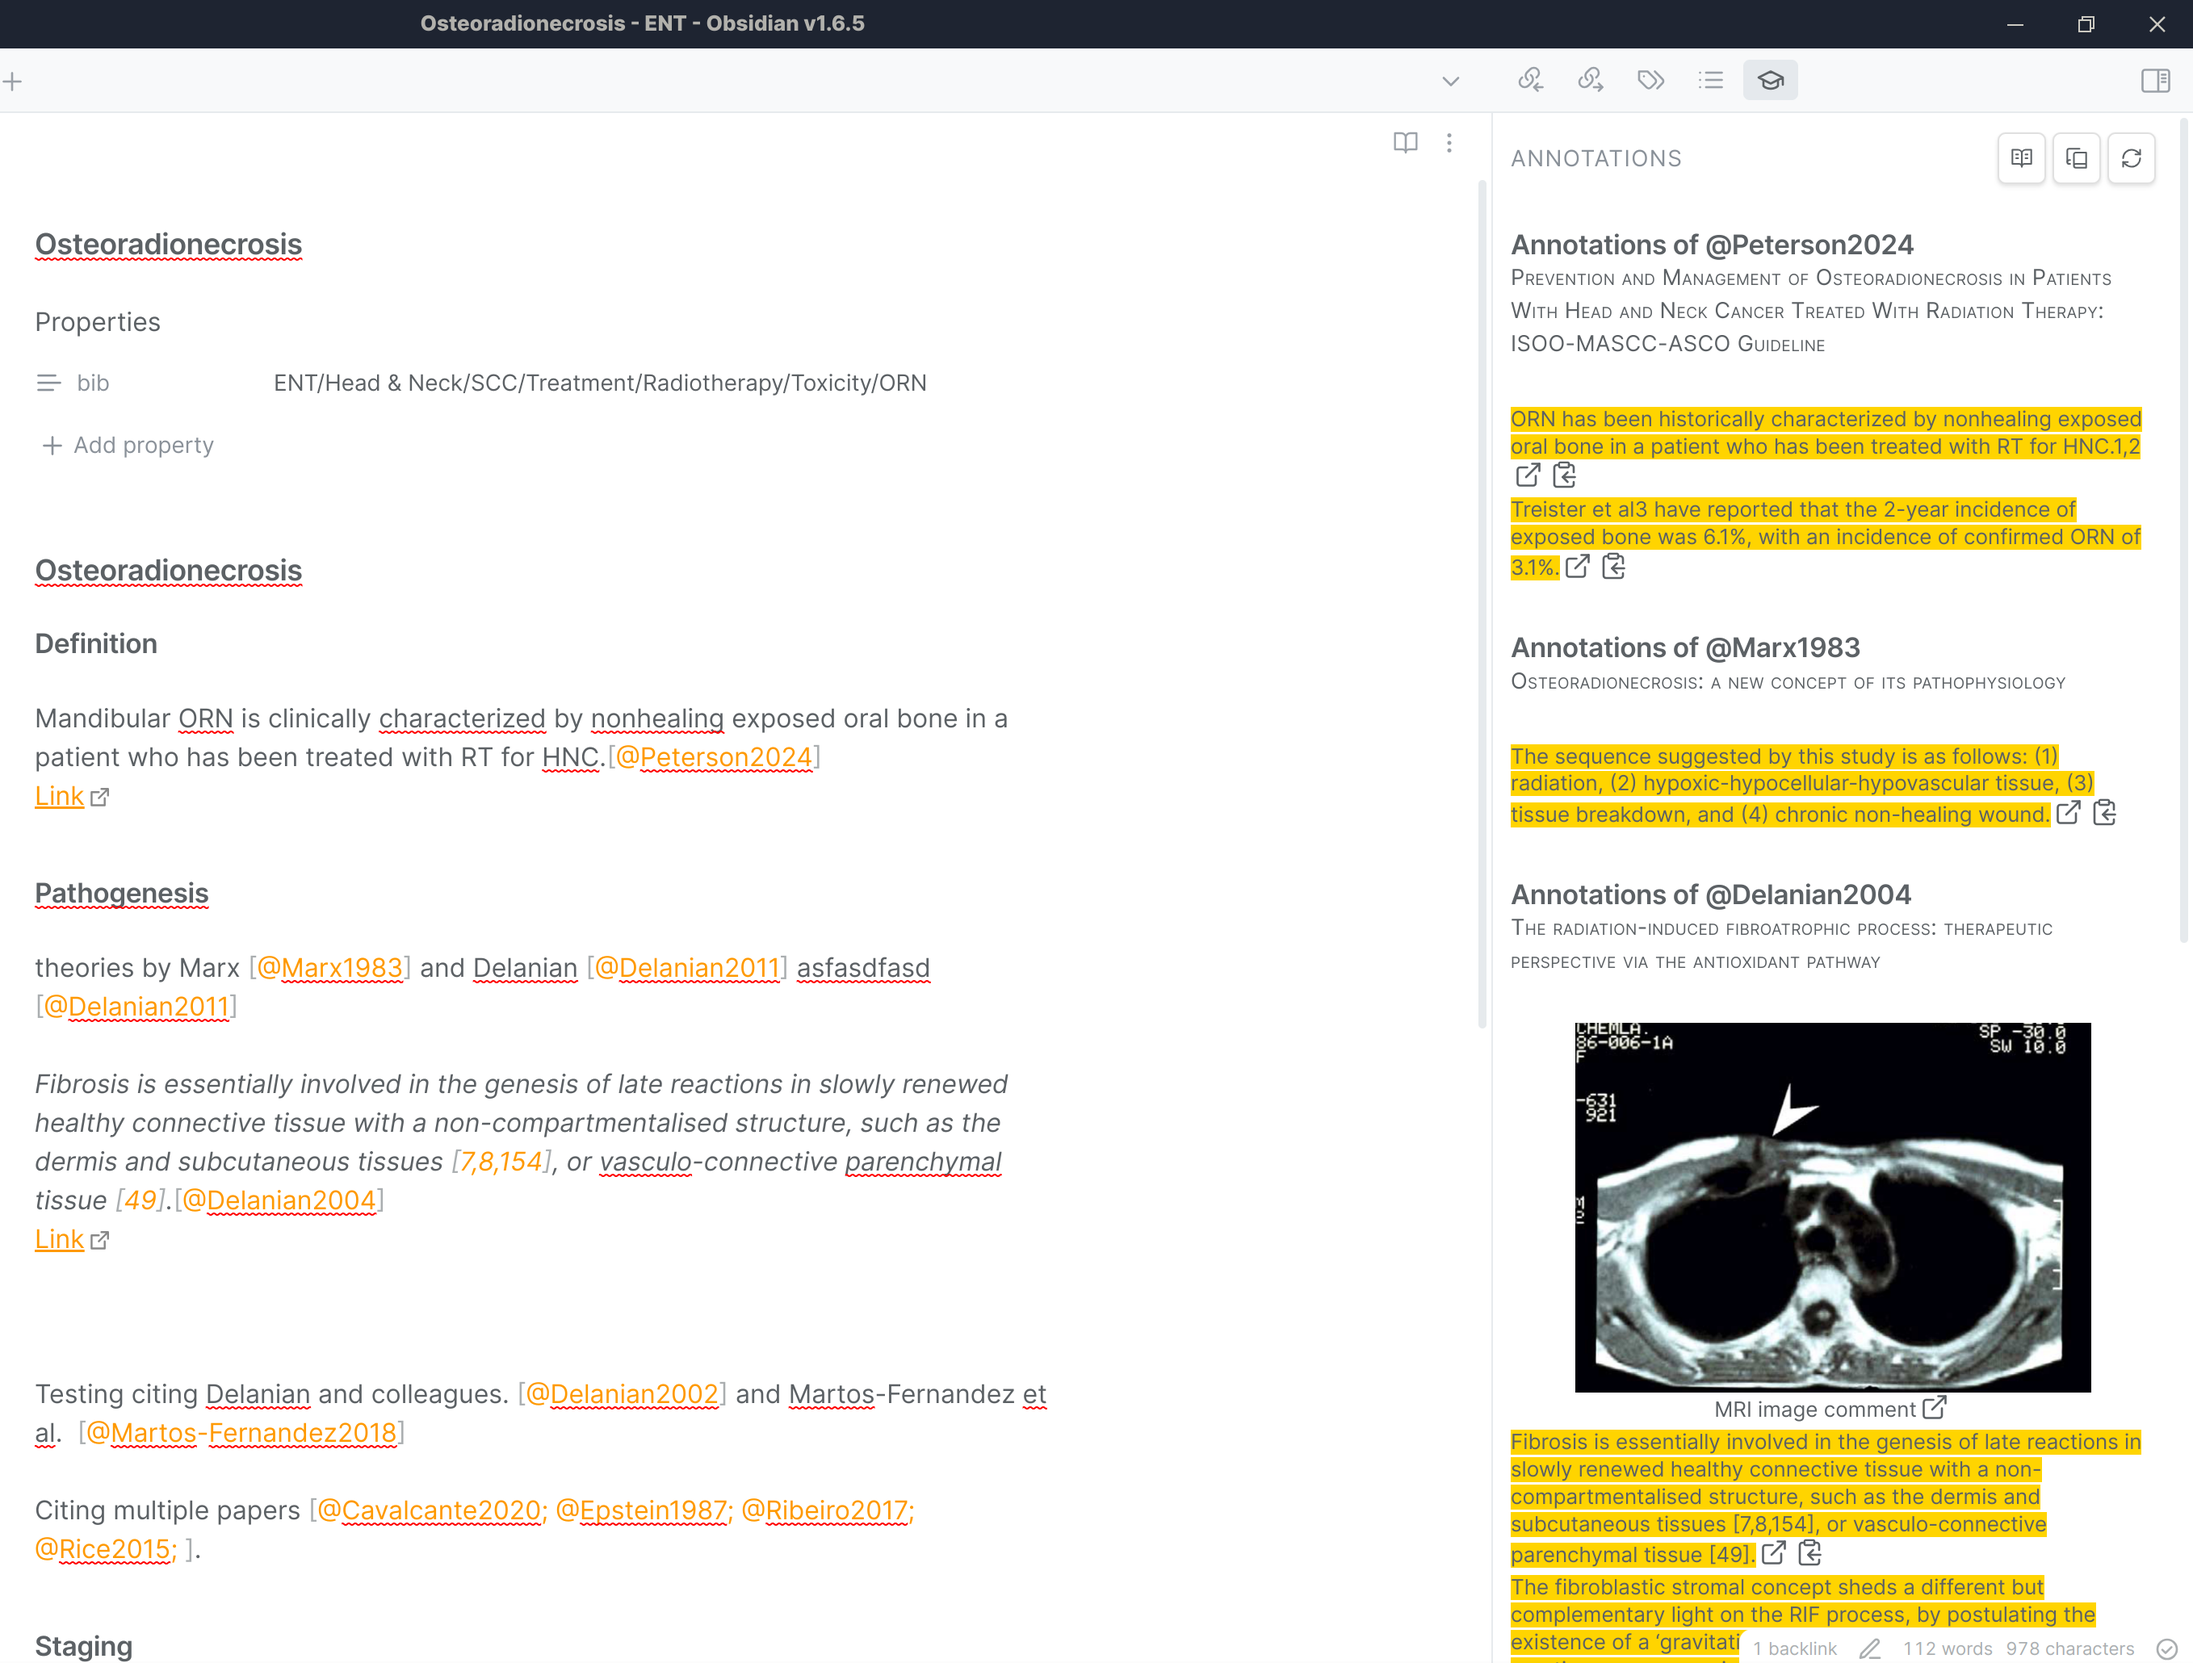
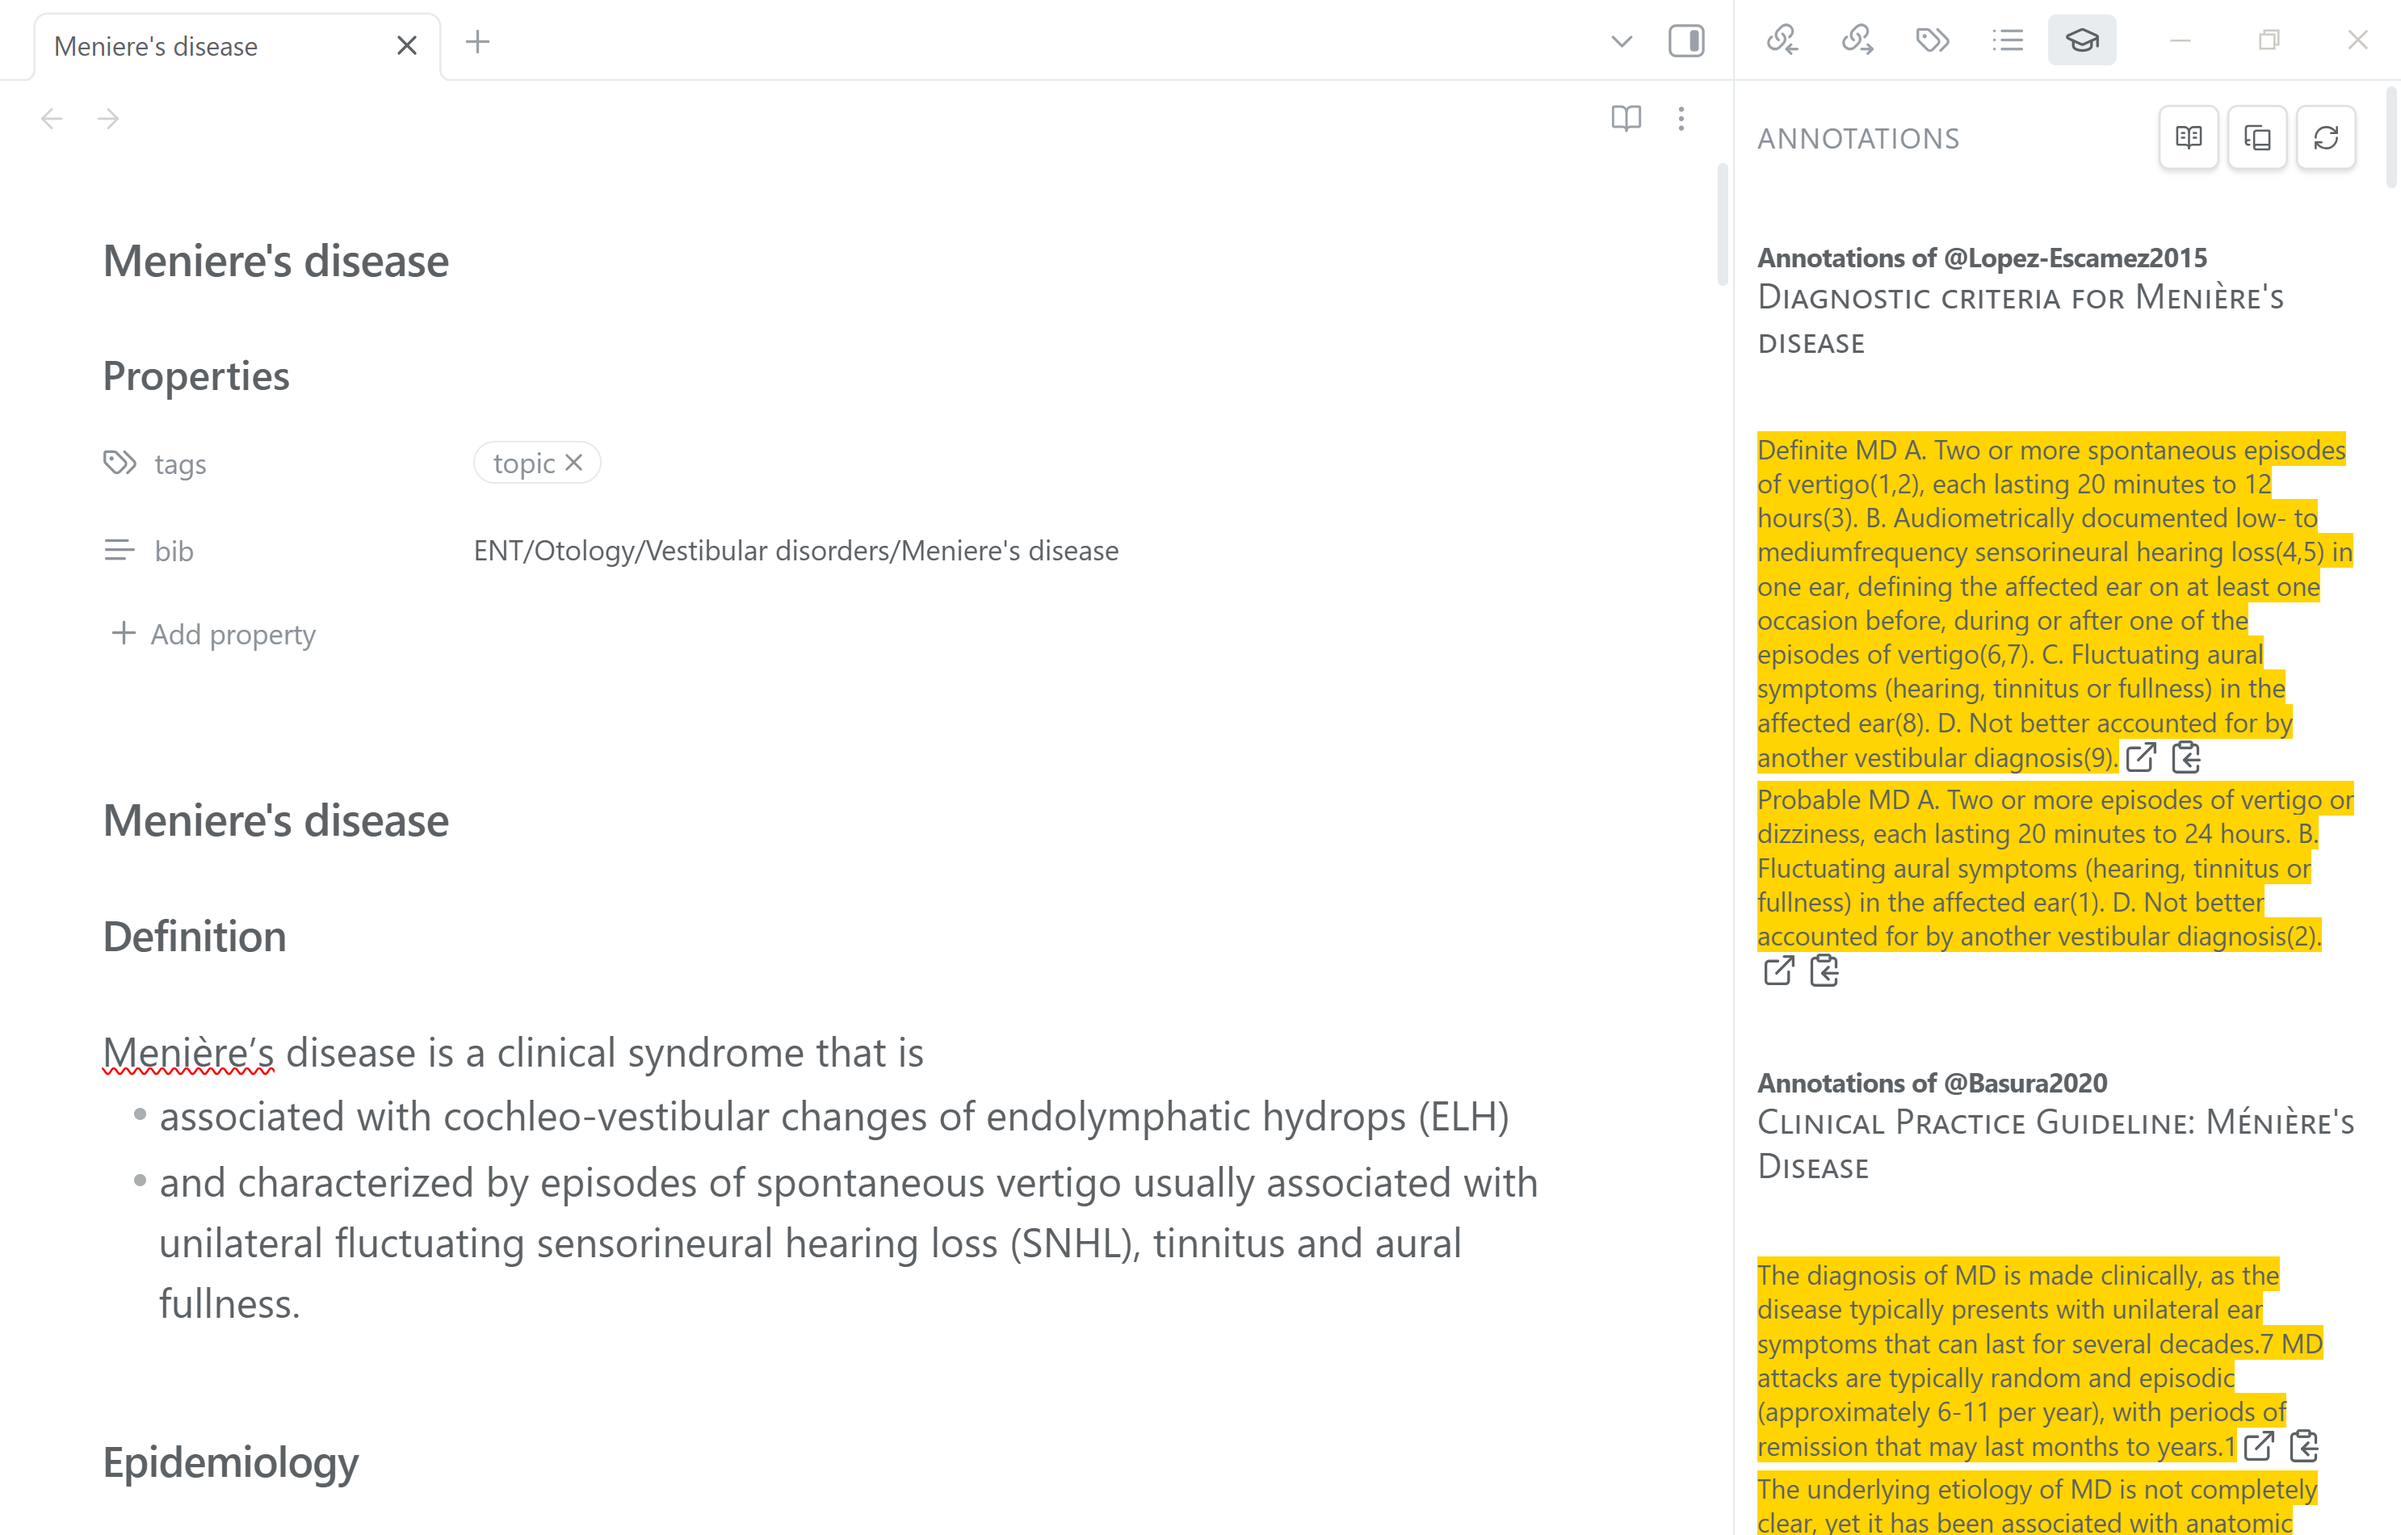
readme and screenshot changes

diff --git a/README.md b/README.md
@@ -10,6 +10,25 @@ Deep Sit is an Obsidian plugin that allows you to easily cite and refer to the l
 - Zotero's Better BibTeX plugin. (https://retorque.re/zotero-better-bibtex/index.html)
 - Note: Zotero, with Better BibTeX installed, must be running while you are using this plugin.
 
+## Screenshots
+
+- Cite as you write
+
+![Citing](/screenshots/citing.png)
+
+- References 
+
+![References](/screenshots/references.png)
+
+- Annotations
+
+![Annotations](/screenshots/annotations.png)
+
+- Insert References Section
+
+![References Section](/screenshots/references_section.png)
+
+
 ## Installation
 
 ### Manual installation
@@ -67,23 +86,6 @@ This plugin's would fit optimally within your research workflow, if you operate 
 - Icons for quick-jump to the annotation in Zotero and for quick-copy the appropriately-referenced annotation to clipboard.
 - Annotations view also includes Zotero "area" pdf annotations viewed as in-line pictures.
 
-## Screenshots
-
-- Cite as you write
-
-![Citing](/screenshots/citing.png)
-
-- References 
-
-![References](/screenshots/references.png)
-
-- Bibliography mode
-
-![Bibliography](/screenshots/bibliography.png)
-
-- Multi-file Annotations view pane
-
-![Annotations](/screenshots/annotations.png)
 
 ## Usage
 
